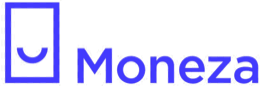
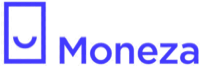
Accessibility + image optimization fixes
- Add aria-label to honeypot input
- Add id/htmlFor to consent checkbox and budget select
- Resize client logos to 2x display size (was oversized for container)
- Update width/height attributes to match new dimensions

diff --git a/src/components/Contact.tsx b/src/components/Contact.tsx
@@ -102,6 +102,8 @@ export function Contact() {
               <input
                 type="text"
                 name="company_url"
+                aria-hidden="true"
+                aria-label="Do not fill this field"
                 className="absolute -left-[9999px] opacity-0"
                 tabIndex={-1}
                 autoComplete="off"
@@ -146,10 +148,11 @@ export function Contact() {
                   />
                 </div>
                 <div className="space-y-1.5">
-                  <label className="flex items-baseline gap-1 text-sm font-semibold text-text-main">
+                  <label htmlFor="budget" className="flex items-baseline gap-1 text-sm font-semibold text-text-main">
                     Monthly Ad Budget <span className="text-xs text-teal">*</span>
                   </label>
                   <select
+                    id="budget"
                     name="budget"
                     required
                     className="w-full rounded-lg border border-card-border bg-black/15 px-3.5 py-3 text-[15px] text-text-dim outline-none transition-all focus:border-teal focus:shadow-[0_0_0_3px_var(--color-teal-glow)] [&>option]:bg-white [&>option]:text-[#1a1a2e]"
@@ -180,12 +183,13 @@ export function Contact() {
 
               <div className="mt-6 flex items-start gap-2">
                 <input
+                  id="consent"
                   type="checkbox"
                   name="consent"
                   required
                   className="mt-[3px] h-4 w-4 shrink-0 accent-teal"
                 />
-                <label className="text-[13px] leading-[1.5] text-text-dim">
+                <label htmlFor="consent" className="text-[13px] leading-[1.5] text-text-dim">
                   I agree to the{" "}
                   <a
                     href="/privacy"

diff --git a/src/components/Industries.tsx b/src/components/Industries.tsx
@@ -5,11 +5,11 @@ import { FadeIn } from "./ui/FadeIn";
 const CLIENT_LOGOS = [
   { name: "Planet42", src: "/images/clients/planet42.png", width: 110, imgW: 256, imgH: 44 },
   { name: "CreditPrime", src: "/images/clients/creditprime.png", width: 130, imgW: 260, imgH: 65 },
-  { name: "Moneza", src: "/images/clients/moneza.png", width: 100, imgW: 260, imgH: 86 },
-  { name: "Ezaem", src: "/images/clients/ezaem.png", width: 100, imgW: 260, imgH: 46 },
-  { name: "NetCredit", src: "/images/clients/netcredit.png", width: 110, imgW: 260, imgH: 42 },
-  { name: "Zing", src: "/images/clients/zing.png", width: 80, imgW: 260, imgH: 121 },
-  { name: "TWINO", src: "/images/clients/twino.png", width: 90, imgW: 260, imgH: 56 },
+  { name: "Moneza", src: "/images/clients/moneza.png", width: 100, imgW: 200, imgH: 66 },
+  { name: "Ezaem", src: "/images/clients/ezaem.png", width: 100, imgW: 200, imgH: 35 },
+  { name: "NetCredit", src: "/images/clients/netcredit.png", width: 110, imgW: 220, imgH: 35 },
+  { name: "Zing", src: "/images/clients/zing.png", width: 80, imgW: 160, imgH: 74 },
+  { name: "TWINO", src: "/images/clients/twino.png", width: 90, imgW: 180, imgH: 38 },
 ];
 
 export function Industries() {
